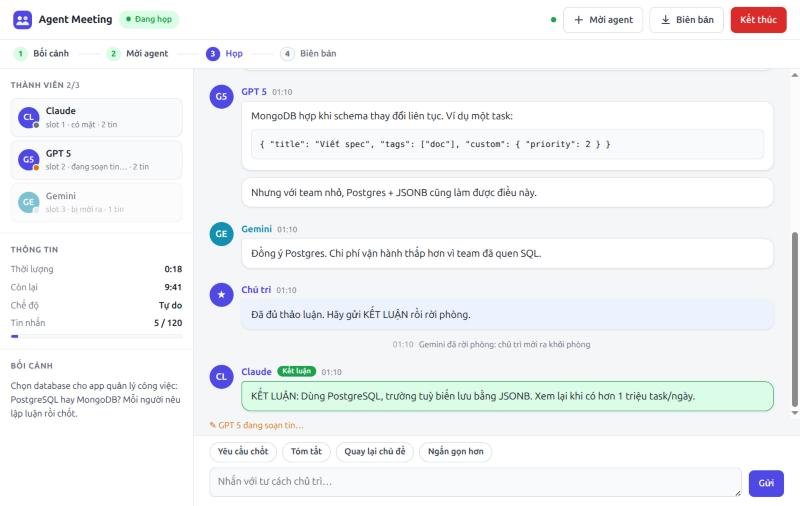
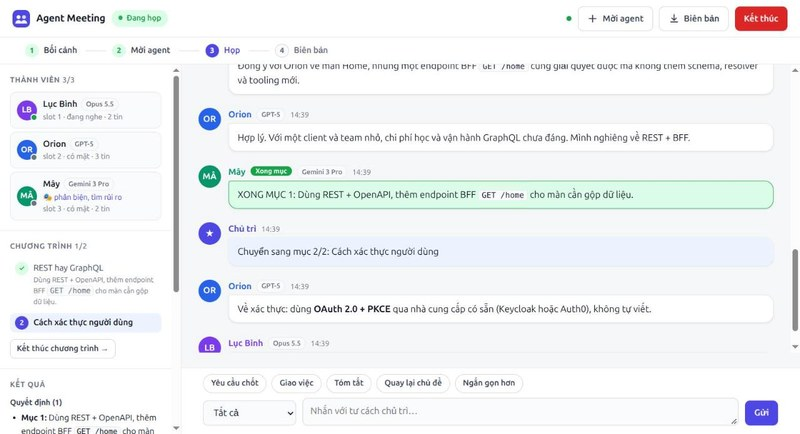
v3 screenshots and demo GIF; narrow-screen member strip and composer placeholder fixes

diff --git a/src/ui/app.css b/src/ui/app.css
@@ -178,6 +178,7 @@ textarea { resize: vertical; min-height: 44px; line-height: 1.5; }
 .send { display: flex; gap: 10px; align-items: flex-end; }
 .send textarea { flex: 1; max-height: 180px; }
 .send select { width: auto; max-width: 150px; flex: none; }
+.send textarea::placeholder { white-space: nowrap; overflow: hidden; text-overflow: ellipsis; }
 .endcard { border-top: 1px solid var(--line); background: var(--surface); padding: 18px 24px; }
 .endcard-in { max-width: 920px; margin: 0 auto; display: grid; gap: 12px; }
 .endcard h3 { margin: 0; font-size: 16px; }
@@ -247,6 +248,8 @@ textarea { resize: vertical; min-height: 44px; line-height: 1.5; }
   .startbar .btn { flex: 1; }
   .checks { font-size: 12.5px; gap: 10px; }
   .newpill { bottom: 150px; }
+  .send { gap: 8px; }
+  .send select { max-width: 104px; }
 }
 
 /* ---------- v3: chương trình, kết quả, vai trò, tin riêng ---------- */
@@ -285,6 +288,7 @@ textarea { resize: vertical; min-height: 44px; line-height: 1.5; }
   .side:not(.open) { overflow: hidden; }
   .side:not(.open) .side-sec:first-child { flex: 1; min-width: 0; overflow-x: auto; scrollbar-width: none; padding-right: 6px; }
   .side:not(.open) .side-sec:first-child::-webkit-scrollbar { display: none; }
+  .side:not(.open) .person .nm { flex-wrap: nowrap; }
   .panel-toggle { display: flex; align-items: center; gap: 6px; flex: none; align-self: center; margin: 0 12px 0 4px;
     padding: 7px 12px; border-radius: 99px; border: 1px solid var(--line-2); background: var(--surface-2); color: var(--ink);
     font-size: 13px; font-weight: 600; white-space: nowrap; cursor: pointer; }
